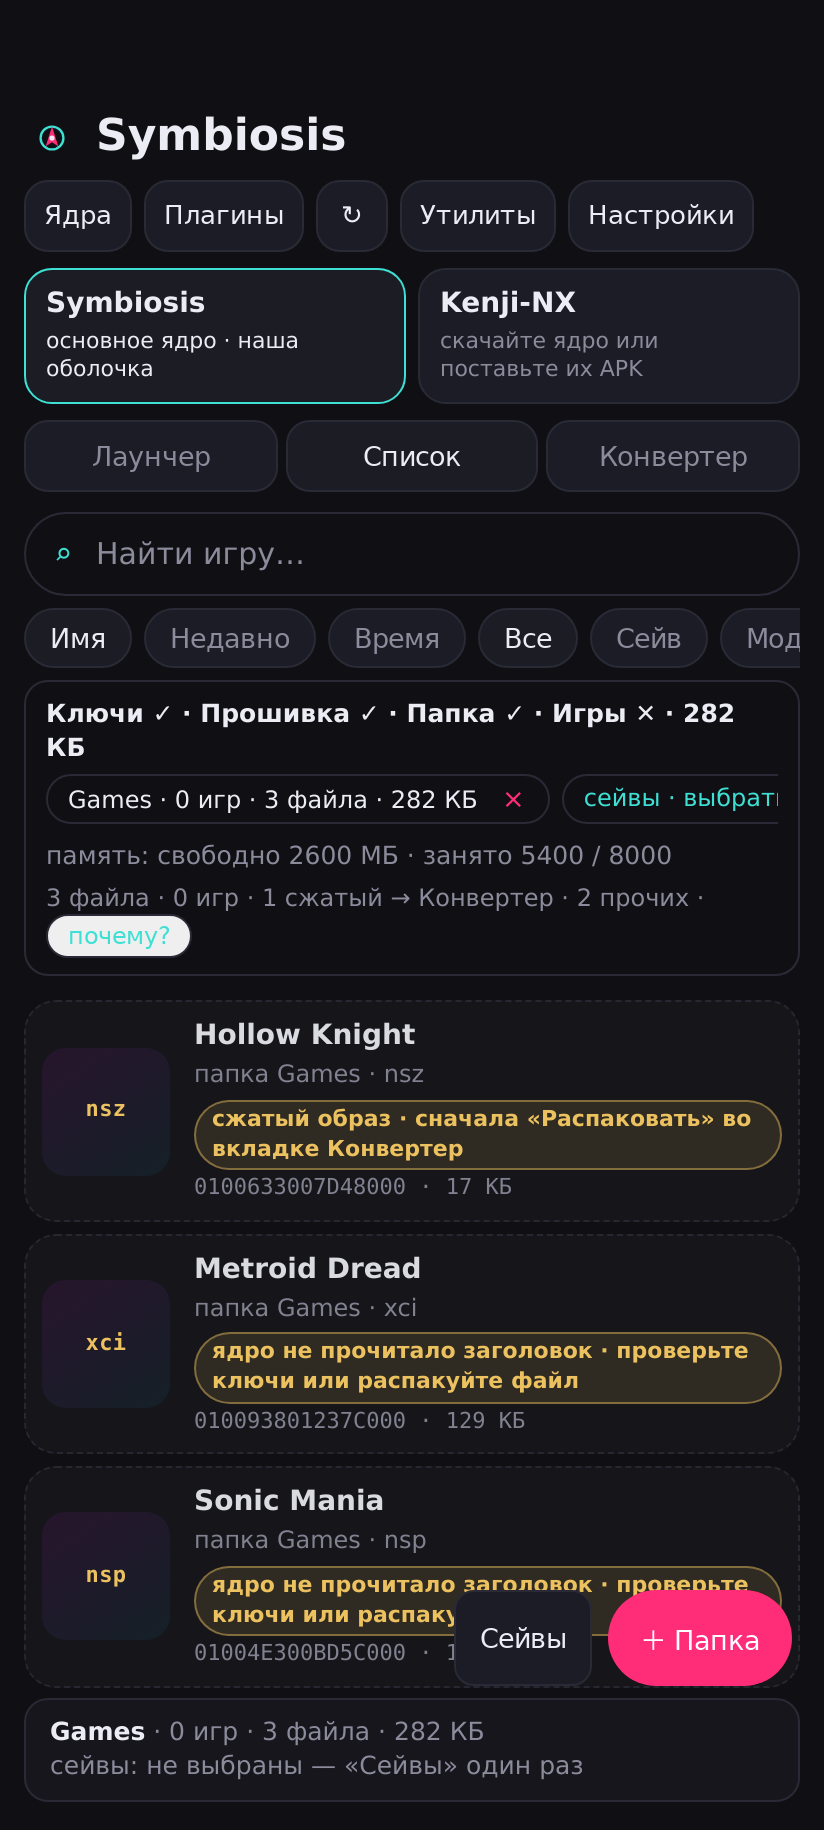
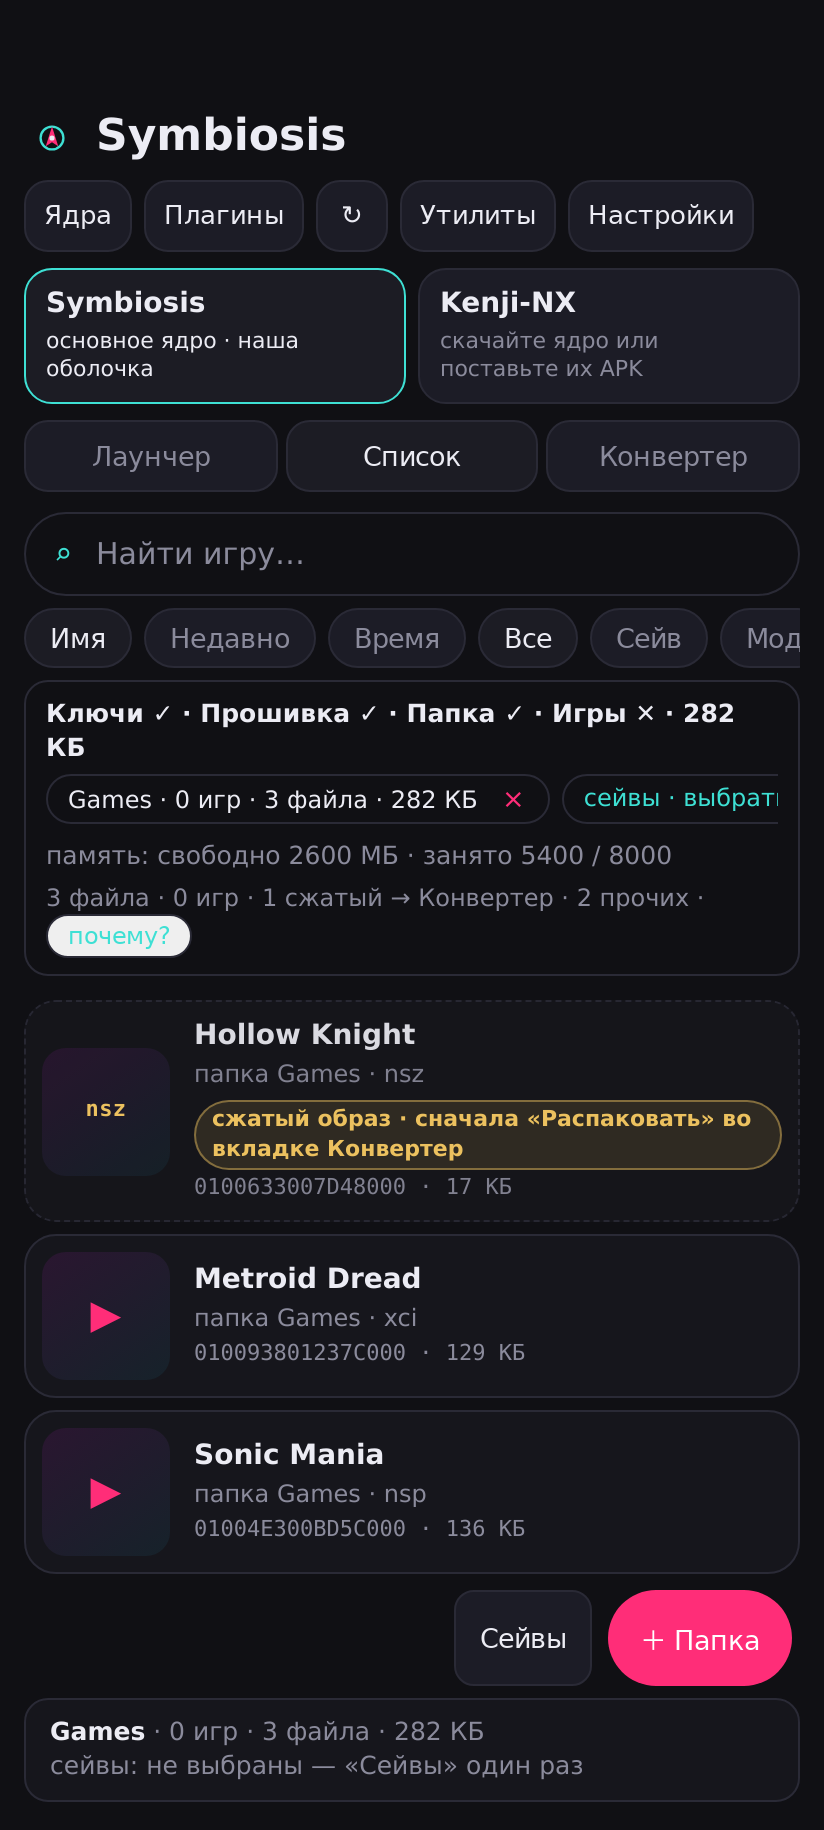
Скриншоты: доска, экран «нужны ключи», синхронизация с веткой Symbiosis

Changed region(s): [[0.2124, 0.6852, 0.9709, 0.9033], [0.0303, 0.7787, 0.2124, 0.8721], [0.091, 0.7164, 0.1517, 0.7475]]

diff --git a/public/symbiosis/library.html b/public/symbiosis/library.html
@@ -781,6 +781,9 @@ function fillShot(i, path) {
 function play(g) {
   if (!g || !g.path || !N() || !N().launch) return;
   if (g.runnable === false) { deadAction(g); return; }
+  // Ключей нет - запуск всё равно кончится ошибкой ядра. Сказать об этом
+  // здесь честнее, чем показать чужой traceback из native.
+  if (g.needsKeys) { keysNeeded(g); return; }
   const eng = parse(call('engines'), null);
   if (eng && eng.current && eng.current !== eng.launch) {
     HOLD = g;
@@ -843,6 +846,28 @@ function deadAction(g) {
     closeSheet();
     if (N() && N().openUtilities) N().openUtilities();
   };
+  const close = $('a-close');
+  if (close) close.onclick = closeSheet;
+  openSheet();
+}
+
+// Файл читается, но без ключей консоли не расшифруется.
+//
+// Настоящий дамп без prod.keys ведёт себя именно так: контейнер разобран,
+// заголовок прочитан, а содержимое - нет. Запуск в этом состоянии даёт
+// ошибку ядра, и лучше объяснить её заранее, чем показывать пользователю
+// строку из native.
+function keysNeeded(g) {
+  HOLD = g;
+  $('sheet-title').textContent = g.title || 'Игра';
+  $('sheet-note').textContent =
+    'Файл разобран, но содержимое зашифровано. Нужны ключи консоли (prod.keys) ' +
+    'и прошивка: без них ядро не запустит ни один дамп, а не только этот.';
+  $('sheet-actions').innerHTML =
+    '<button class="go" id="a-keys">Открыть ключи</button>' +
+    '<button class="ghost" id="a-close">Закрыть</button>';
+  const open = $('a-keys');
+  if (open) open.onclick = () => { closeSheet(); if (N() && N().openUtilities) N().openUtilities(); };
   const close = $('a-close');
   if (close) close.onclick = closeSheet;
   openSheet();

diff --git a/symbiosis/files/docs/library.html b/symbiosis/files/docs/library.html
@@ -781,6 +781,9 @@ function fillShot(i, path) {
 function play(g) {
   if (!g || !g.path || !N() || !N().launch) return;
   if (g.runnable === false) { deadAction(g); return; }
+  // Ключей нет - запуск всё равно кончится ошибкой ядра. Сказать об этом
+  // здесь честнее, чем показать чужой traceback из native.
+  if (g.needsKeys) { keysNeeded(g); return; }
   const eng = parse(call('engines'), null);
   if (eng && eng.current && eng.current !== eng.launch) {
     HOLD = g;
@@ -843,6 +846,28 @@ function deadAction(g) {
     closeSheet();
     if (N() && N().openUtilities) N().openUtilities();
   };
+  const close = $('a-close');
+  if (close) close.onclick = closeSheet;
+  openSheet();
+}
+
+// Файл читается, но без ключей консоли не расшифруется.
+//
+// Настоящий дамп без prod.keys ведёт себя именно так: контейнер разобран,
+// заголовок прочитан, а содержимое - нет. Запуск в этом состоянии даёт
+// ошибку ядра, и лучше объяснить её заранее, чем показывать пользователю
+// строку из native.
+function keysNeeded(g) {
+  HOLD = g;
+  $('sheet-title').textContent = g.title || 'Игра';
+  $('sheet-note').textContent =
+    'Файл разобран, но содержимое зашифровано. Нужны ключи консоли (prod.keys) ' +
+    'и прошивка: без них ядро не запустит ни один дамп, а не только этот.';
+  $('sheet-actions').innerHTML =
+    '<button class="go" id="a-keys">Открыть ключи</button>' +
+    '<button class="ghost" id="a-close">Закрыть</button>';
+  const open = $('a-keys');
+  if (open) open.onclick = () => { closeSheet(); if (N() && N().openUtilities) N().openUtilities(); };
   const close = $('a-close');
   if (close) close.onclick = closeSheet;
   openSheet();

diff --git a/symbiosis/files/patch/android/assets/library.html b/symbiosis/files/patch/android/assets/library.html
@@ -781,6 +781,9 @@ function fillShot(i, path) {
 function play(g) {
   if (!g || !g.path || !N() || !N().launch) return;
   if (g.runnable === false) { deadAction(g); return; }
+  // Ключей нет - запуск всё равно кончится ошибкой ядра. Сказать об этом
+  // здесь честнее, чем показать чужой traceback из native.
+  if (g.needsKeys) { keysNeeded(g); return; }
   const eng = parse(call('engines'), null);
   if (eng && eng.current && eng.current !== eng.launch) {
     HOLD = g;
@@ -843,6 +846,28 @@ function deadAction(g) {
     closeSheet();
     if (N() && N().openUtilities) N().openUtilities();
   };
+  const close = $('a-close');
+  if (close) close.onclick = closeSheet;
+  openSheet();
+}
+
+// Файл читается, но без ключей консоли не расшифруется.
+//
+// Настоящий дамп без prod.keys ведёт себя именно так: контейнер разобран,
+// заголовок прочитан, а содержимое - нет. Запуск в этом состоянии даёт
+// ошибку ядра, и лучше объяснить её заранее, чем показывать пользователю
+// строку из native.
+function keysNeeded(g) {
+  HOLD = g;
+  $('sheet-title').textContent = g.title || 'Игра';
+  $('sheet-note').textContent =
+    'Файл разобран, но содержимое зашифровано. Нужны ключи консоли (prod.keys) ' +
+    'и прошивка: без них ядро не запустит ни один дамп, а не только этот.';
+  $('sheet-actions').innerHTML =
+    '<button class="go" id="a-keys">Открыть ключи</button>' +
+    '<button class="ghost" id="a-close">Закрыть</button>';
+  const open = $('a-keys');
+  if (open) open.onclick = () => { closeSheet(); if (N() && N().openUtilities) N().openUtilities(); };
   const close = $('a-close');
   if (close) close.onclick = closeSheet;
   openSheet();

diff --git a/src/lib/symbiosis.ts b/src/lib/symbiosis.ts
@@ -15,6 +15,8 @@
 
 export interface SymbiosisFile {
   name: string;
+  /** Запуск требует prod.keys: контейнер разобран, содержимое - нет. */
+  needsKeys?: boolean;
   /** Строка под названием. Пустая - не показывать ничего выдуманного. */
   developer?: string;
   /** Что получилось после распаковки — из tools/make-fixtures.py. */
@@ -199,7 +201,10 @@ export function fixturesToFiles(report: FixtureReport): SymbiosisFile[] {
     titleId: (/\[([0-9A-Fa-f]{16})]/.exec(f.name) ?? [])[1] ?? '',
     version: '',
     kind: f.kind,
-    runnable: f.runnable,
+    // Настоящий дамп без ключей запускается «в принципе», но не сейчас:
+    // страница покажет экран «нужны ключи» вместо ошибки ядра.
+    runnable: f.kind === 'unreadable' ? true : f.runnable,
+    needsKeys: f.kind === 'unreadable',
     reason: f.reason,
     bytes: f.bytes,
   }));
@@ -277,6 +282,7 @@ export function gamesJson(files: SymbiosisFile[]) {
     shaderSize: '',
     fileName: f.name,
     runnable: f.runnable,
+    needsKeys: f.needsKeys === true,
     kind: f.kind,
     reason: f.reason ?? '',
   }));

diff --git a/docs/SHOTS.md b/docs/SHOTS.md
@@ -13,6 +13,8 @@
 | `05-converted.png` | Конвертер после нажатия: настоящий распакованный NSP из NSZ с причиной, почему он пока не открывается |
 | `06-dump-742.png` | Папка-дамп: 742 файла, 120 игр, фильтр «Не запускается» — то, из-за чего была жалоба «видит одну игру» |
 | `07-studio-checks.png` | Сама студия: вкладка Symbiosis, 13/13 проверок, страница живёт в правом доке |
+| `08-needs-keys.png` | Настоящий дамп без `prod.keys`: «Файл разобран, но содержимое зашифровано», кнопка «Открыть ключи» |
+| `00-overview.png` | Все снимки одной доской |
 
 ## Что скриншоты нашли, а тесты — нет
 
